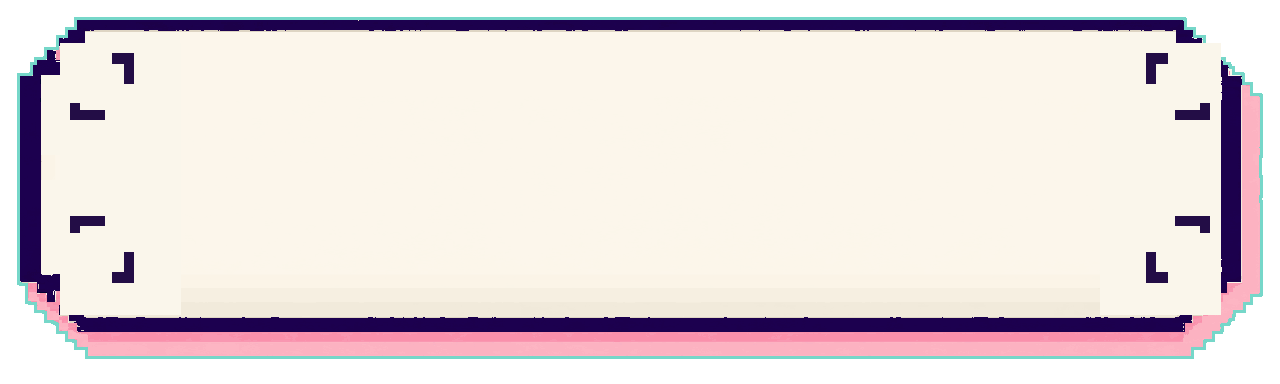
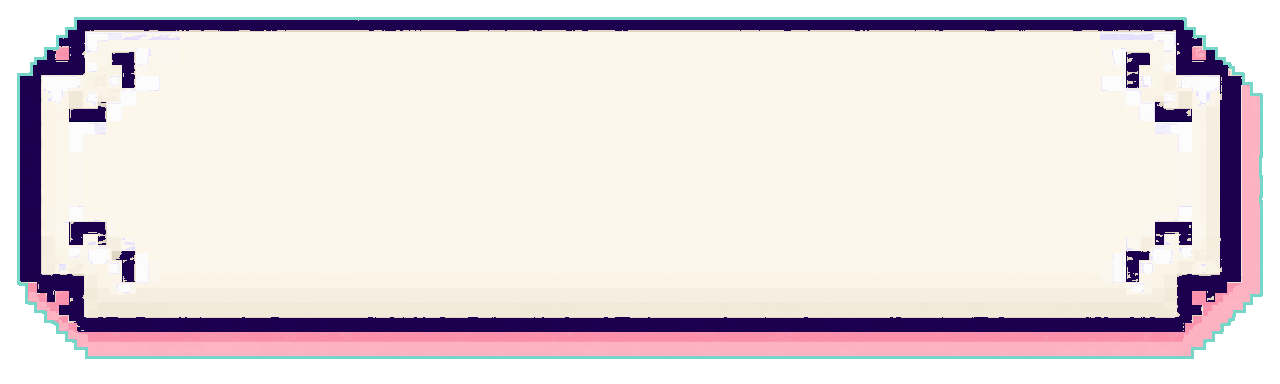
Restore shared button ornaments and isolate area selection artwork

diff --git a/apps/desktop/src/styles/pixelButtons.css b/apps/desktop/src/styles/pixelButtons.css
@@ -13,6 +13,14 @@
   --sprite-focus: url("/design/media/assets/buttons/jewel/primary-focus.png");
   --sprite-disabled: url("/design/media/assets/buttons/jewel/primary-disabled.png");
 }
+
+.app.skin-village .sprite-button.btn-select-area {
+  --sprite-normal: url("/design/media/assets/buttons/jewel/area-normal.png");
+  --sprite-hover: url("/design/media/assets/buttons/jewel/area-hover.png");
+  --sprite-pressed: url("/design/media/assets/buttons/jewel/area-pressed.png");
+  --sprite-focus: url("/design/media/assets/buttons/jewel/area-focus.png");
+  --sprite-disabled: url("/design/media/assets/buttons/jewel/area-disabled.png");
+}
 .app.skin-village .sprite-button[data-art-role="secondary"] {
   --sprite-normal: url("/design/media/assets/buttons/jewel/secondary-normal.png");
   --sprite-hover: url("/design/media/assets/buttons/jewel/secondary-hover.png");

diff --git a/apps/desktop/src/pages/controlCenter/CapturePage.tsx b/apps/desktop/src/pages/controlCenter/CapturePage.tsx
@@ -228,7 +228,7 @@ export function CapturePage({
                 </h2>
                 <span className="region-coords ml-auto font-mono text-[11px]">{regionLabel(region)}</span>
                 <PixelButton
-                  className="btn btn-sm btn-quiet"
+                  className="btn btn-sm btn-quiet btn-select-area"
                   disabled={isPending("select_region")}
                   onClick={onSelectArea}
                   type="button"

diff --git a/apps/desktop/src/pages/ControlCenterPage.tsx b/apps/desktop/src/pages/ControlCenterPage.tsx
@@ -316,7 +316,7 @@ export function ControlCenterPage() {
           {target && (
             <div className="head-actions flex flex-none items-center gap-3">
               <PixelButton
-                className="btn"
+                className="btn btn-select-area"
                 icon="/design/media/assets/icons/v2/capture-frame.png"
                 onClick={selectArea}
                 type="button"

diff --git a/docs/execution/review-handoffs/windows-webview-polish-2026-10-25.md b/docs/execution/review-handoffs/windows-webview-polish-2026-10-25.md
@@ -100,3 +100,9 @@ Human-selected Phase B only. Review against the final artwork-preserving impleme
 - Evidence under artifacts/lab/checks/windows-polish-2026-10-27/: performance-precommit.json, ui-precommit-final.log, python-precommit-focused.log, portable-precommit.log, native-precommit.json. No push performed.
 - Focused changed-file Python run completed: 419 passed, 5 skipped, 1 failed. Failure was tests/test_packaging.py::test_a_timed_out_run_takes_the_processes_it_started_with_it: WinError 32 removing the test child's inherited stderr file after timeout. It is a process-tree cleanup test, not asset/UI rendering; repeated separately outside the sandbox before committing. No broad-suite pass claimed.
 - The isolated process-cleanup test passed outside the sandbox (1 passed, 5.54s). Final assessment: affected-file checks pass with that native rerun; broad portable run remains incomplete. Ready for the human's pre-push visual inspection; no promise of zero platform-specific bugs.
+
+## Correct shared-button regression: 2026-10-28
+
+- The human rejected the global ornament cleanup in 7e05a84. Restored all five secondary sprites from its parent, retaining only the already-approved internal top-strip cleanup. Pixel comparison confirms exact original RGBA outside that strip and an unchanged full alpha channel.
+- Select area now has five dedicated area-* sprites and a btn-select-area class on the header and Region buttons. Its internal brackets can be cleaned without changing navigation, other buttons, popup controls or shared artwork. Preserved the shared frame/panel bottom-line fix.
+- Production frontend build passed; UI tests: 69 passed, 1 skipped. New native build is regenerated with the isolated assets. No push.
